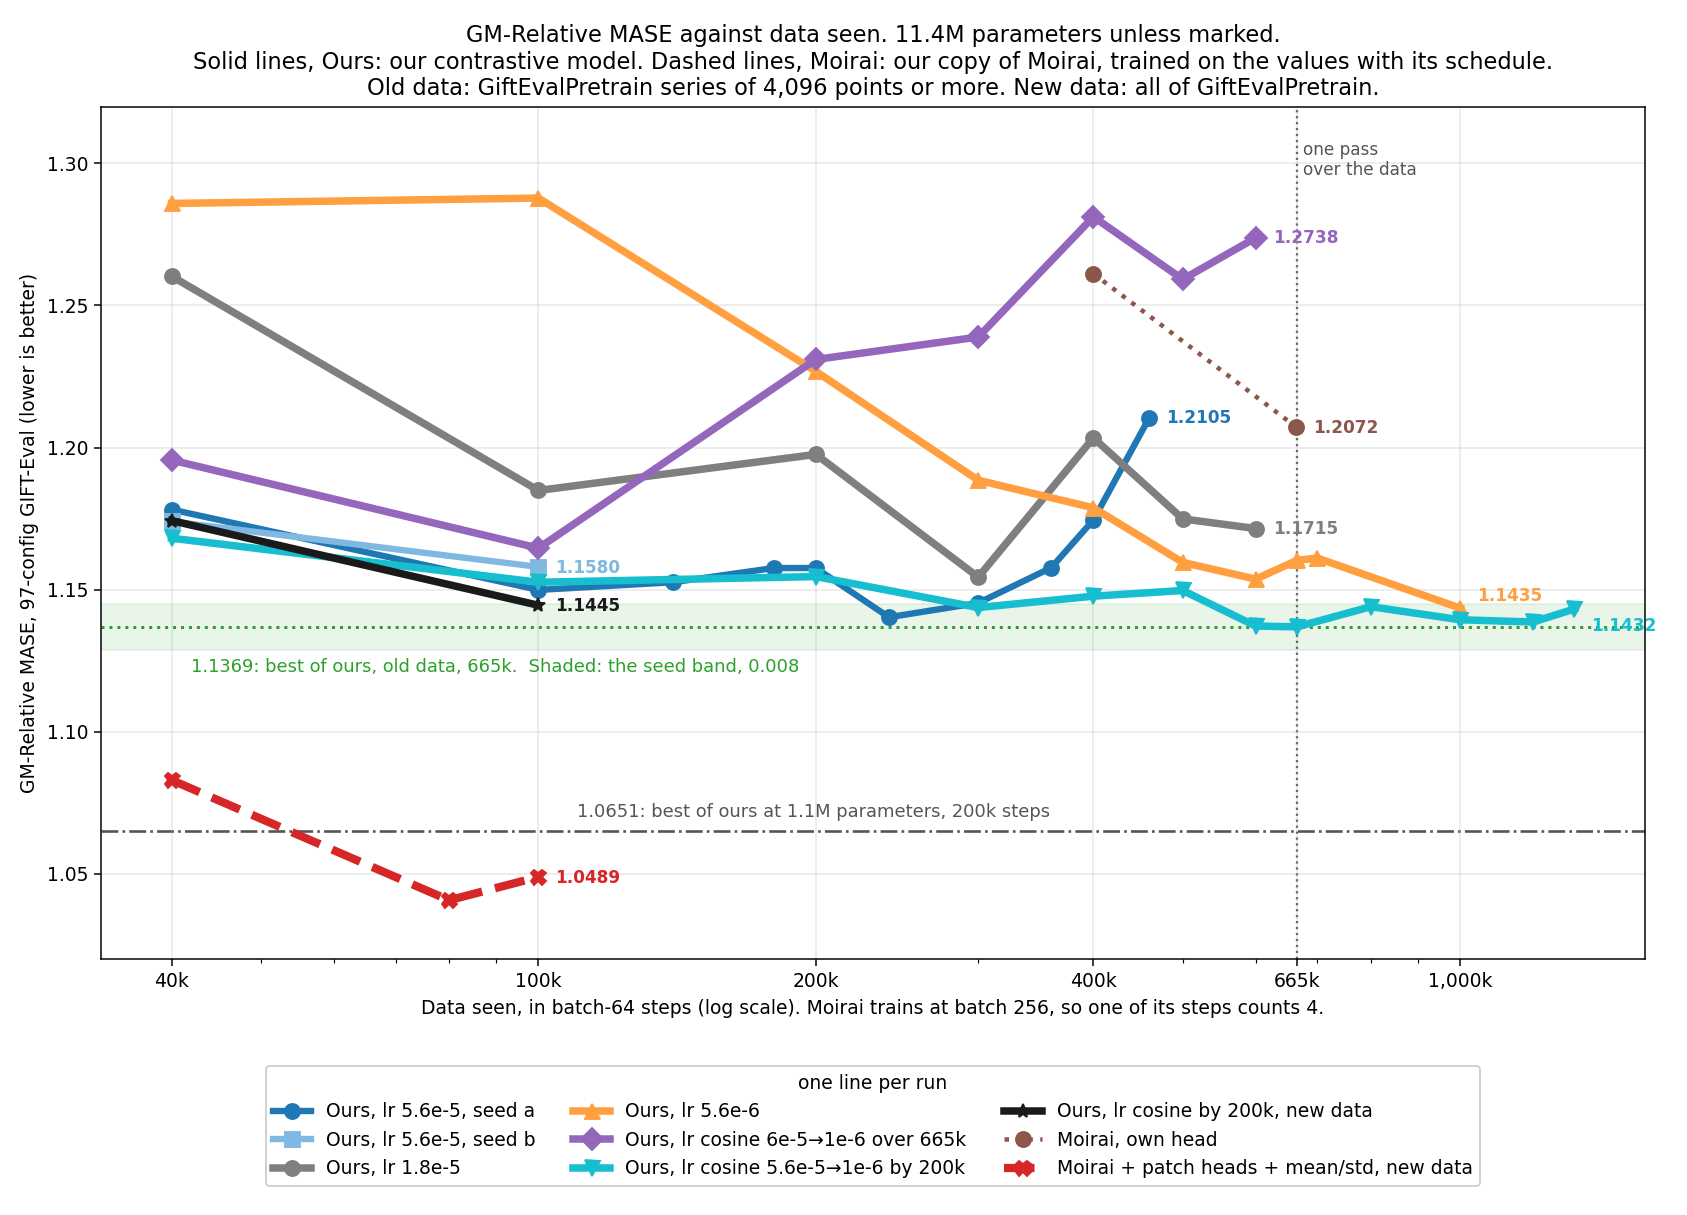
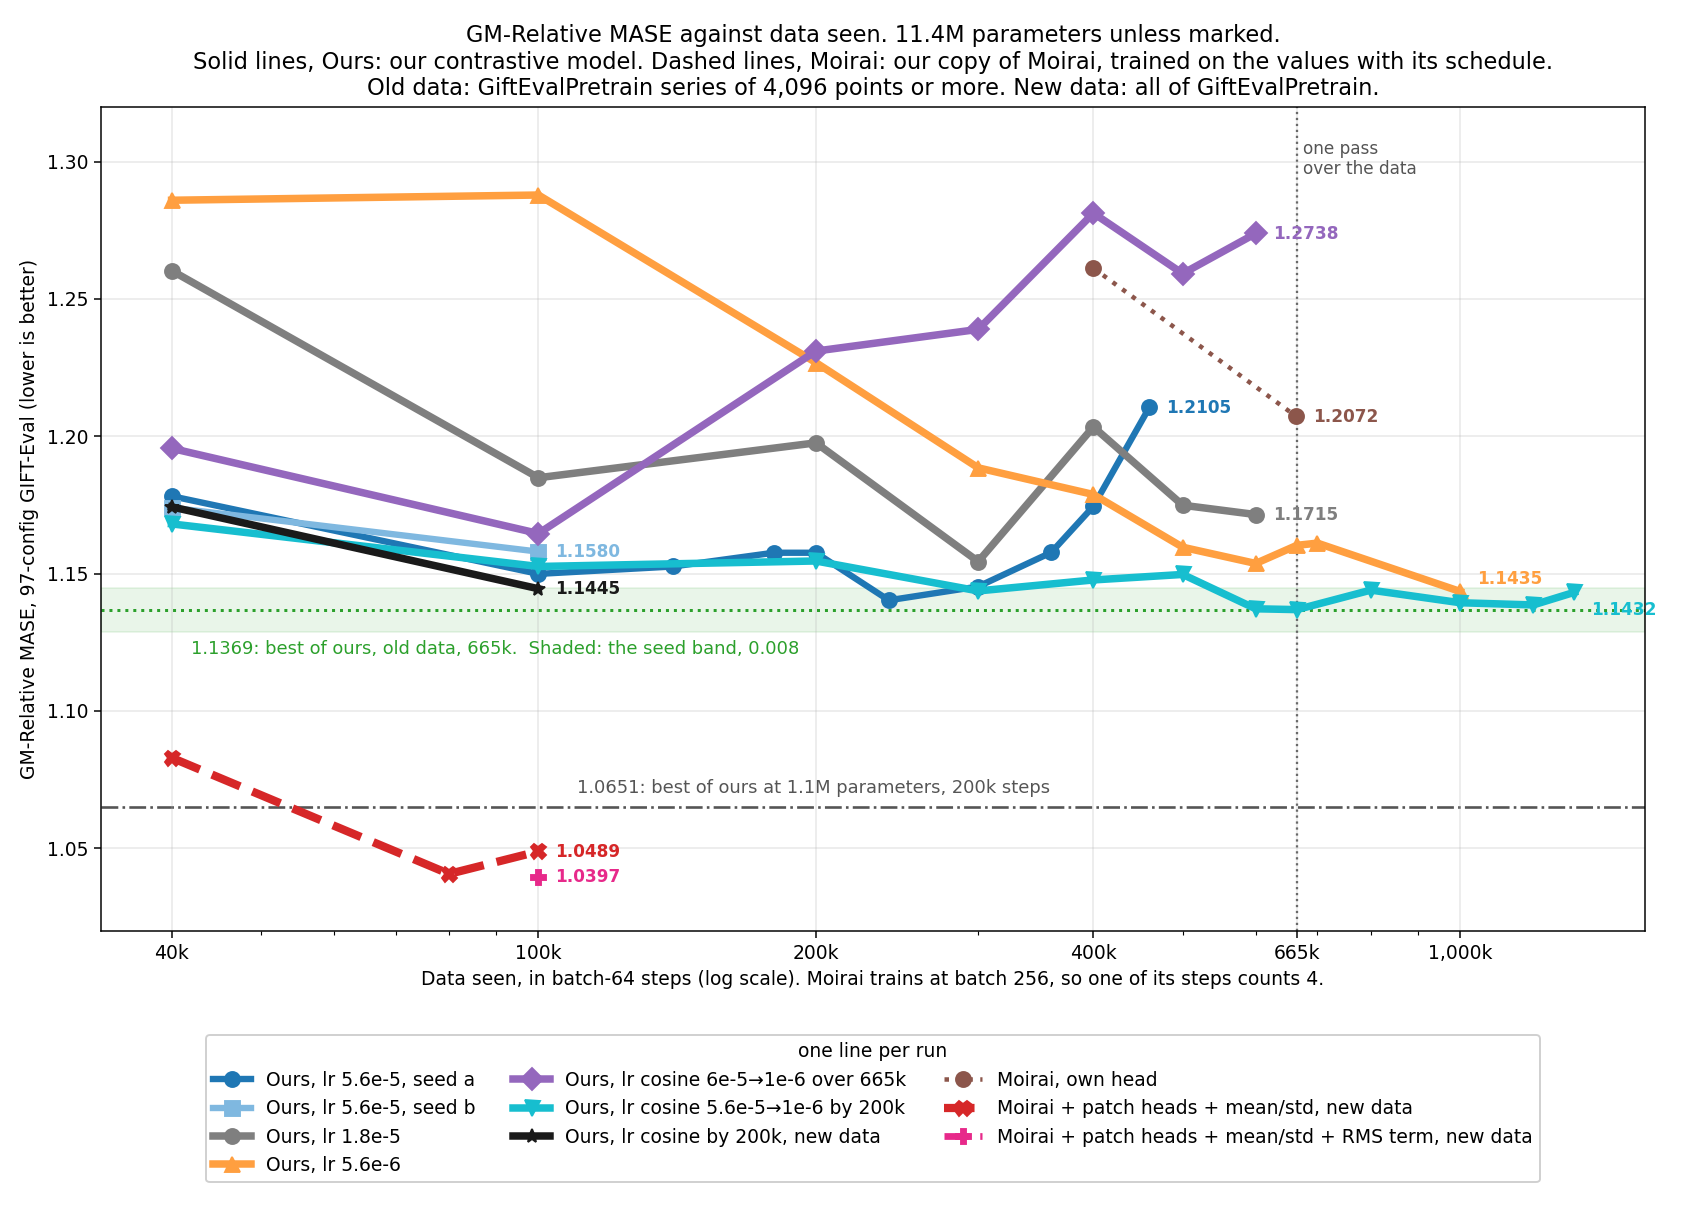
exp(#421): #421n, with the RMS term, scores 1.0397 at 25k, native
#421f scored 1.0489 at 25k and 1.0407 at 20k. #421n is pink and dashed.

diff --git a/reports/2026-09-06_moirai_small_size/scripts/plot_gm_rates.py b/reports/2026-09-06_moirai_small_size/scripts/plot_gm_rates.py
@@ -33,13 +33,15 @@ RUNS = [
     # Moirai: our copy of Moirai, trained on the values with its schedule.
     ("cf415_moirai_native", "Moirai, own head",                   2.4, "o"),
     ("cf421f_moirai_native", "Moirai + patch heads + mean/std, new data", 4.4, "X"),
+    ("cf421n_moirai_native", "Moirai + patch heads + mean/std + RMS term, new data", 3.6, "P"),
 ]
 SERIES = [(arm, label, colour(arm), width, marker, line(arm))
           for arm, label, width, marker in RUNS]
 # Moirai trains at batch 256: one of its steps holds the data of four
 # batch-64 steps.
 XSCALE = {"cf415_moirai": 4, "cf415_moirai_native": 4, "cf419_moirai_native": 4,
-          "cf421z_moirai_native": 4, "cf421f_moirai_native": 4, "cf421fb_moirai_native": 4}
+          "cf421z_moirai_native": 4, "cf421f_moirai_native": 4, "cf421fb_moirai_native": 4,
+          "cf421n_moirai_native": 4}
 # Where the last score of a line prints, so two lines that end together part.
 END_LABEL_OFFSET = {P + "_lr100x": (9, 4), P + "_cos200k": (9, -12)}
 BEST, BAND, PROJECT_BEST = 1.1369, 0.008, 1.0651

diff --git a/reports/2026-09-06_moirai_small_size/scripts/plot_radar_419.py b/reports/2026-09-06_moirai_small_size/scripts/plot_radar_419.py
@@ -15,6 +15,7 @@ from run_style import P, colour, line
 NEW_DATA = [
     ("cf419_cos200k", "cos419_", "Ours"),
     ("cf421f_moirai_native", "moirai421f_native", "Moirai + patch heads + mean/std"),
+    ("cf421n_moirai_native", "moirai421n_native", "Moirai + patch heads + mean/std + RMS term"),
 ]
 OLD_BEST = ("cyan665", "Ours, old data, 665k   1.1369",
             colour(P + "_cos200k"), line(P + "_cos200k"))

diff --git a/reports/2026-09-06_moirai_small_size/scripts/run_style.py b/reports/2026-09-06_moirai_small_size/scripts/run_style.py
@@ -22,6 +22,7 @@ STYLE = {
     "cf421z_moirai_native": ("#c51b7d", MOIRAI),
     "cf421f_moirai_native": ("#d62728", MOIRAI),
     "cf421fb_moirai_native": ("#d4a017", MOIRAI),
+    "cf421n_moirai_native": ("#e7298a", MOIRAI),
 }
 
 
